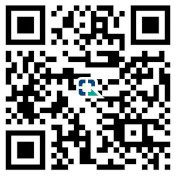
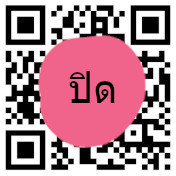
disable donate

diff --git a/src/components/HeroProgress.vue b/src/components/HeroProgress.vue
@@ -422,11 +422,12 @@ const setCurrentIndex = (index) => {
         <!-- Column 2: Donation -->
         <div class="flex flex-col items-center justify-center gap-3 w-full">
           <button
+            disabled
             @click="emit('openDonate')"
             class="w-full max-w-xs px-6 py-3.5 rounded-2xl bg-gradient-to-r from-pink-500 to-rose-400 text-white font-semibold text-sm shadow-md hover:shadow-lg hover:opacity-95 transition-all flex items-center justify-center gap-2 group cursor-pointer"
           >
             <Heart class="w-4 h-4 fill-white group-hover:scale-110 transition-transform" />
-            <span>แจ้งการโดเนท (ส่งสลิป)</span>
+            <span>แจ้งการโดเนท (ปิดแล้ว)</span>
             <ChevronRight class="w-4 h-4 opacity-75" />
           </button>
           <img

diff --git a/src/data/campaignData.ts b/src/data/campaignData.ts
@@ -8,12 +8,12 @@ export const INITIAL_CAMPAIGN: CampaignData = {
   votePrice: 68, // 68 Baht per vote
   deadline: "2026-10-01T12:00:00+0700",
   endVote: "2026-11-12T21:00:00+0700",
-  promptPayNumber: "236-1-62262-9",
-  bankAccountName: "นาย วัฒนชัย ยิ้มงาม",
+  promptPayNumber: "23x-x-xxxx2-9",
+  bankAccountName: "นาย xxxxx xxxxxม",
   bankName: "ธนาคารกสิกรไทย (KBank)",
-  bankAccountNumber: "236-1-62262-9",
+  bankAccountNumber: "23x-x-xxxx2-9",
   sheetCsvUrl: "",
-  //startToken: 955+750+380+100+750+540+0+50+1896+1900+2000+1775+1750,
+  //startToken: 955+750+380+100+750+540+861+50+2400+1900+2000+1775+1750,
   startToken: 0,
   maxAddonToken: 6000,
   currentBonusToken: 0,

diff --git a/src/components/Header.vue b/src/components/Header.vue
@@ -131,11 +131,12 @@ const handleShare = () => {
         </button>
 
         <button
+          disabled
           @click="emit('openDonate')"
           class="flex-1 sm:flex-initial px-3 sm:px-4 py-2 sm:py-2.5 rounded-xl bg-gradient-to-r from-pink-500 to-rose-400 text-white font-medium text-xs sm:text-sm shadow-xs hover:shadow-md hover:opacity-95 transition-all flex items-center justify-center gap-1.5 cursor-pointer active:scale-95 whitespace-nowrap"
         >
           <Heart class="w-3.5 h-3.5 sm:w-4 sm:h-4 fill-white shrink-0" />
-          <span>ร่วมโดเนท</span>
+          <span>ร่วมโดเนท (ปิดแล้ว)</span>
         </button>
       </div>
     </div>

diff --git a/src/utils/storage.ts b/src/utils/storage.ts
@@ -1,7 +1,7 @@
 import { CampaignData, Donation, WishMessage, Milestone, TanabataWish } from '../types';
 import { INITIAL_CAMPAIGN, INITIAL_DONATIONS, INITIAL_WISHES, INITIAL_MILESTONES, INITIAL_TANABATA_WISHES } from '../data/campaignData';
 
-const CAMPAIGN_KEY = 'niya_campaign_data_v1.12';
+const CAMPAIGN_KEY = 'niya_campaign_data_v1.13';
 const DONATIONS_KEY = 'niya_donations_data_v1';
 const WISHES_KEY = 'niya_wishes_data_v1';
 const TANABATA_KEY = 'niya_tanabata_wishes_v1.1';
